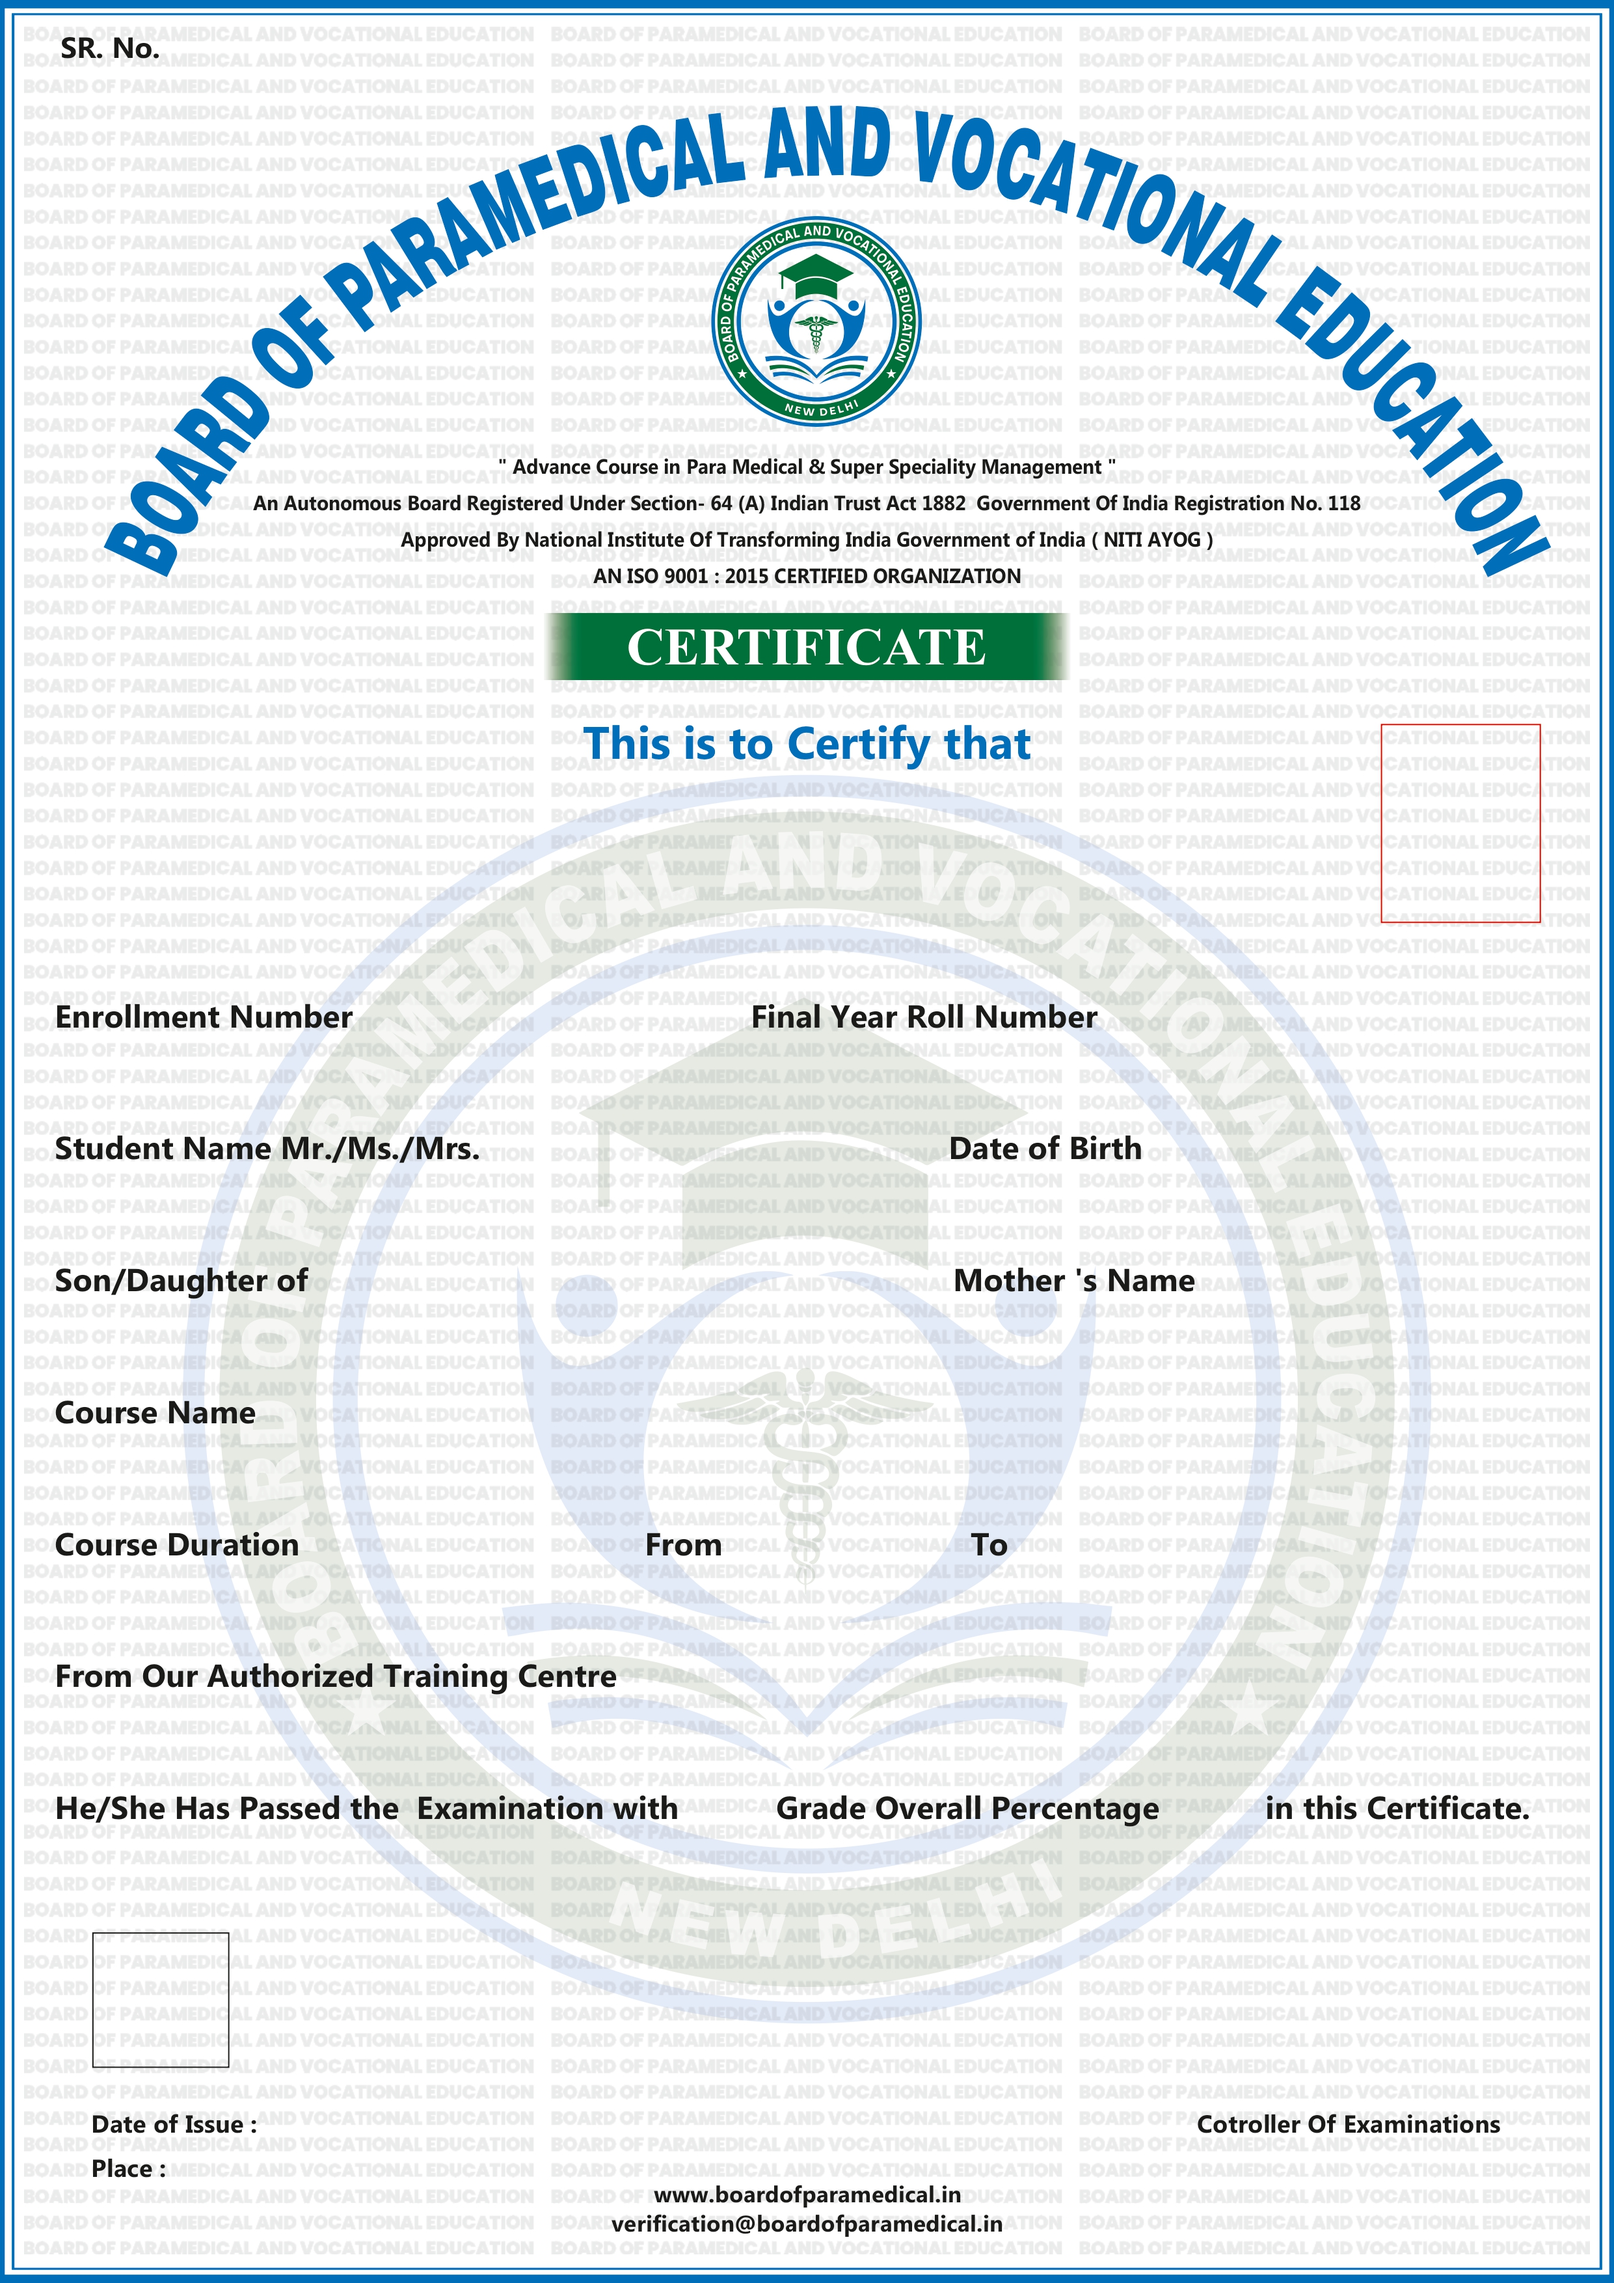
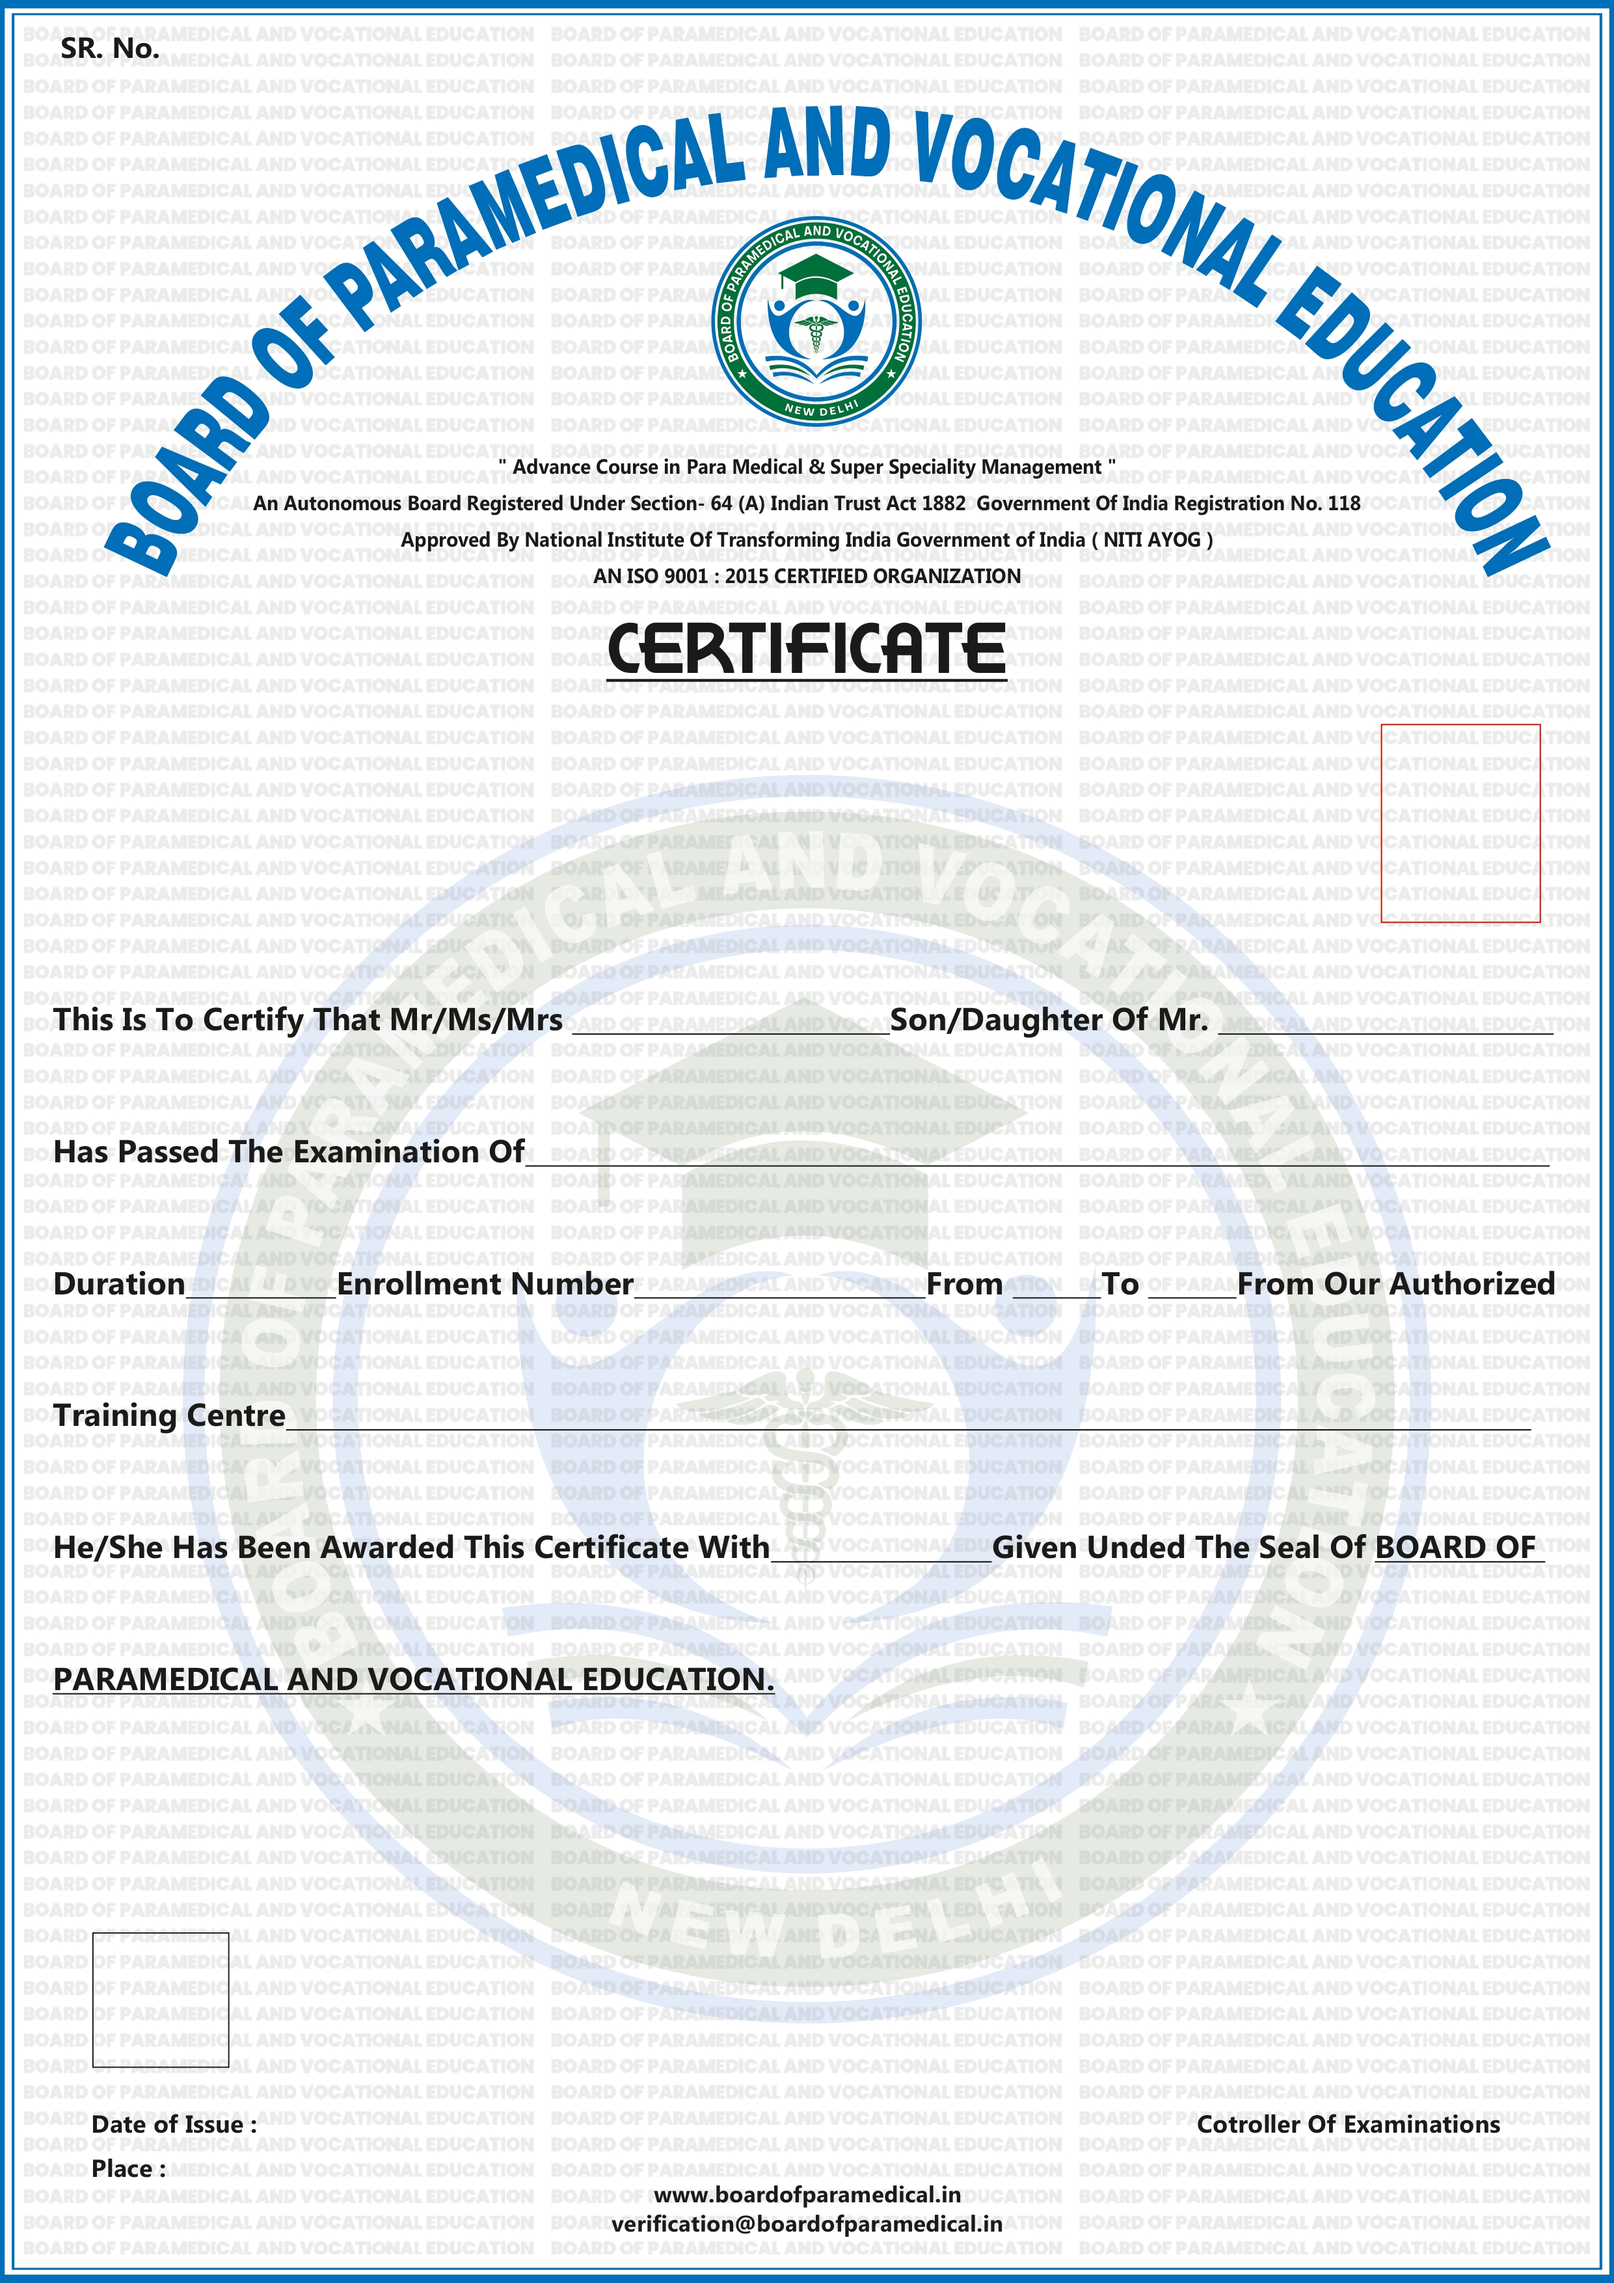
update sivt

diff --git a/assets/custom/student/manage_study_material.js b/assets/custom/student/manage_study_material.js
@@ -73,7 +73,7 @@ document.addEventListener('DOMContentLoaded', function (e) {
                         }
                     }
                     else
-                        return `<a href="${base_url}assets/student-study/${row.file}/preview" target="_blank" class="btn btn-info btn-xs btn-sm"><i class="fa fa-eye"></i> File</a>`;
+                        return `<a href="${base_url}assets/student-study/${row.material_id}/preview" target="_blank" class="btn btn-info btn-xs btn-sm"><i class="fa fa-eye"></i> File</a>`;
                 }
             },
             {

diff --git a/assets/formats/boardofpara/certificate.php b/assets/formats/boardofpara/certificate.php
@@ -87,27 +87,24 @@
     <p class="position-absolute" style="bottom:5%;left:19%;font-size:13px">{createdOn}</p>
     <p class="position-absolute" style="bottom:3.2%;left:15%;font-size:13px">New Delhi</p>
 
-    <p class="position-absolute text-center " style="width:190px;left:23%;top:42.2%;">{roll_no}</p>
-    <p class="position-absolute text-center " style="width:200px;left:73%;top:42.2%;">{enrollment_no}</p>
+    <p class="position-absolute text-center" style="width:155px;left:35%;top:42.2%;">{student_name}</p>
+    <p class="position-absolute text-center" style="width:190px;left:75%;top:42.2%;">{father_name}</p>
 
-    <p class="position-absolute text-center " style="width:230px;left:29%;top:47.9%;">{student_name}</p>
-    <p class="position-absolute text-center " style="width:120px;left:78%;top:47.9%;">{dob}</p>
+    <p class="position-absolute text-center " style="width: 65.5%;left:33%;top:47.9%;">{course_name}</p>
 
-    <p class="position-absolute text-center " style="width:270px;left:20%;top:53.5%;">{father_name}</p>
-    <p class="position-absolute text-center " style="width:197px;left:74%;top:53.5%;">{mother_name}</p>
+    <p class="position-absolute text-center text-capitlize" style="width:75px;left:11.5%;top:53.8%;"><?=humnize_duration($duration,$duration_type)?></p>
+
+    <p class="position-absolute text-center" style="width:145px;left:39%;top:53.8%;">{roll_no}</p>
+    <p class="position-absolute text-center" style="width:50px;left:62%;top:53.8%;font-size:10px">{from_date}</p>
+    <p class="position-absolute text-center" style="width:50px;left:70%;top:53.8%;font-size:10px">{to_date}</p>
     
-    <p class="position-absolute text-center " style="width:80%;left:19%;top:59.5%;">{course_name}</p>
     
-    <p class="position-absolute text-center text-capitlize" style="width:150px;left:20%;top:65.1%;"><?=humnize_duration($duration,$duration_type)?></p>
-    <p class="position-absolute text-center " style="width:100px;left:45%;top:65.1%;">{from_date}</p>
-    <p class="position-absolute text-center " style="width:130px;left:65%;top:65.1%;">{to_date}</p>
-    
-    <p class="position-absolute text-center " style="width:60%;left:38%;top:71%;">{center_name}</p>
+    <p class="position-absolute text-center " style="width:80%;left:18%;top:59.4%;">{center_name}</p>
     
     <!-- <p class="position-absolute text-center " style="width:180px;left:42%;top:69.7%;">{to_date}</p> -->
-    <p class="position-absolute text-center " style="width:50px;left:72%;top:76.5%;">{grade}</p>
+    <!-- <p class="position-absolute text-center " style="width:50px;left:72%;top:76.5%;">{grade}</p> -->
     
-    <p class="position-absolute text-center " style="width:50px;left:41.8%;top:76.5%;">{percentage}%</p>
+    <p class="position-absolute text-center " style="width:105px;left:46%;top:65%;">{percentage}%</p>
 
 </body>
 

diff --git a/modules/assets/controllers/Assets.php b/modules/assets/controllers/Assets.php
@@ -56,21 +56,23 @@ class Assets extends MY_Controller
     //     else{
     //         $this->output->set_status_header(403);
     //         $this->output->set_output("Permission Denied: You do not have access to this file.");
-            
+
     //     }
     // }
     function student_study($para)
     {
-        $file = ($this->uri->segment(3, 0));
-        if ($this->student_model->isStudent() or $this->center_model->isAdminOrCenter()) {
+        $material_id = ($this->uri->segment(3, 0));
+        $getFile = $this->db->where('material_id', $material_id)->get('study_material');
+        if ($getFile->num_rows() && ($this->student_model->isStudent() or $this->center_model->isAdminOrCenter())) {
+            $file = $getFile->row('file');
             if ($this->uri->segment(4, 0) === 'preview')
-                $this->load->view('student/panel/study', ['url' => base_url('assets/student-study/' . $file)]);
+                $this->load->view('student/panel/study', ['url' => base_url('assets/student-study/' . $material_id)]);
             else
                 $this->_view('study-mat/' . $file);
 
         } else {
             $this->load->module('site');
-            $this->site->error_404(403,'Permission Denied');
+            $this->site->error_404(403, 'Permission Denied');
             // $this->output->set_status_header(403);
             // $this->output->set_output("Permission Denied: You do not have access to this file.");
         }

diff --git a/modules/student/controllers/Student.php b/modules/student/controllers/Student.php
@@ -293,7 +293,7 @@ class Student extends MY_Controller
                     $row = $get->row();
                     if ($row->file_type == 'file') {
                         $file = $row->file;
-                        $this->load->view('panel/study', ['url' => base_url('assets/student-study/' . $file)]);
+                        $this->load->view('panel/study', ['url' => base_url('assets/student-study/' . $row->material_id)]);
                     } else if ($row->file_type == 'youtube') {
                         if ($videoId = getYouTubeId($row->file)) {
                             // echo $videoId;
